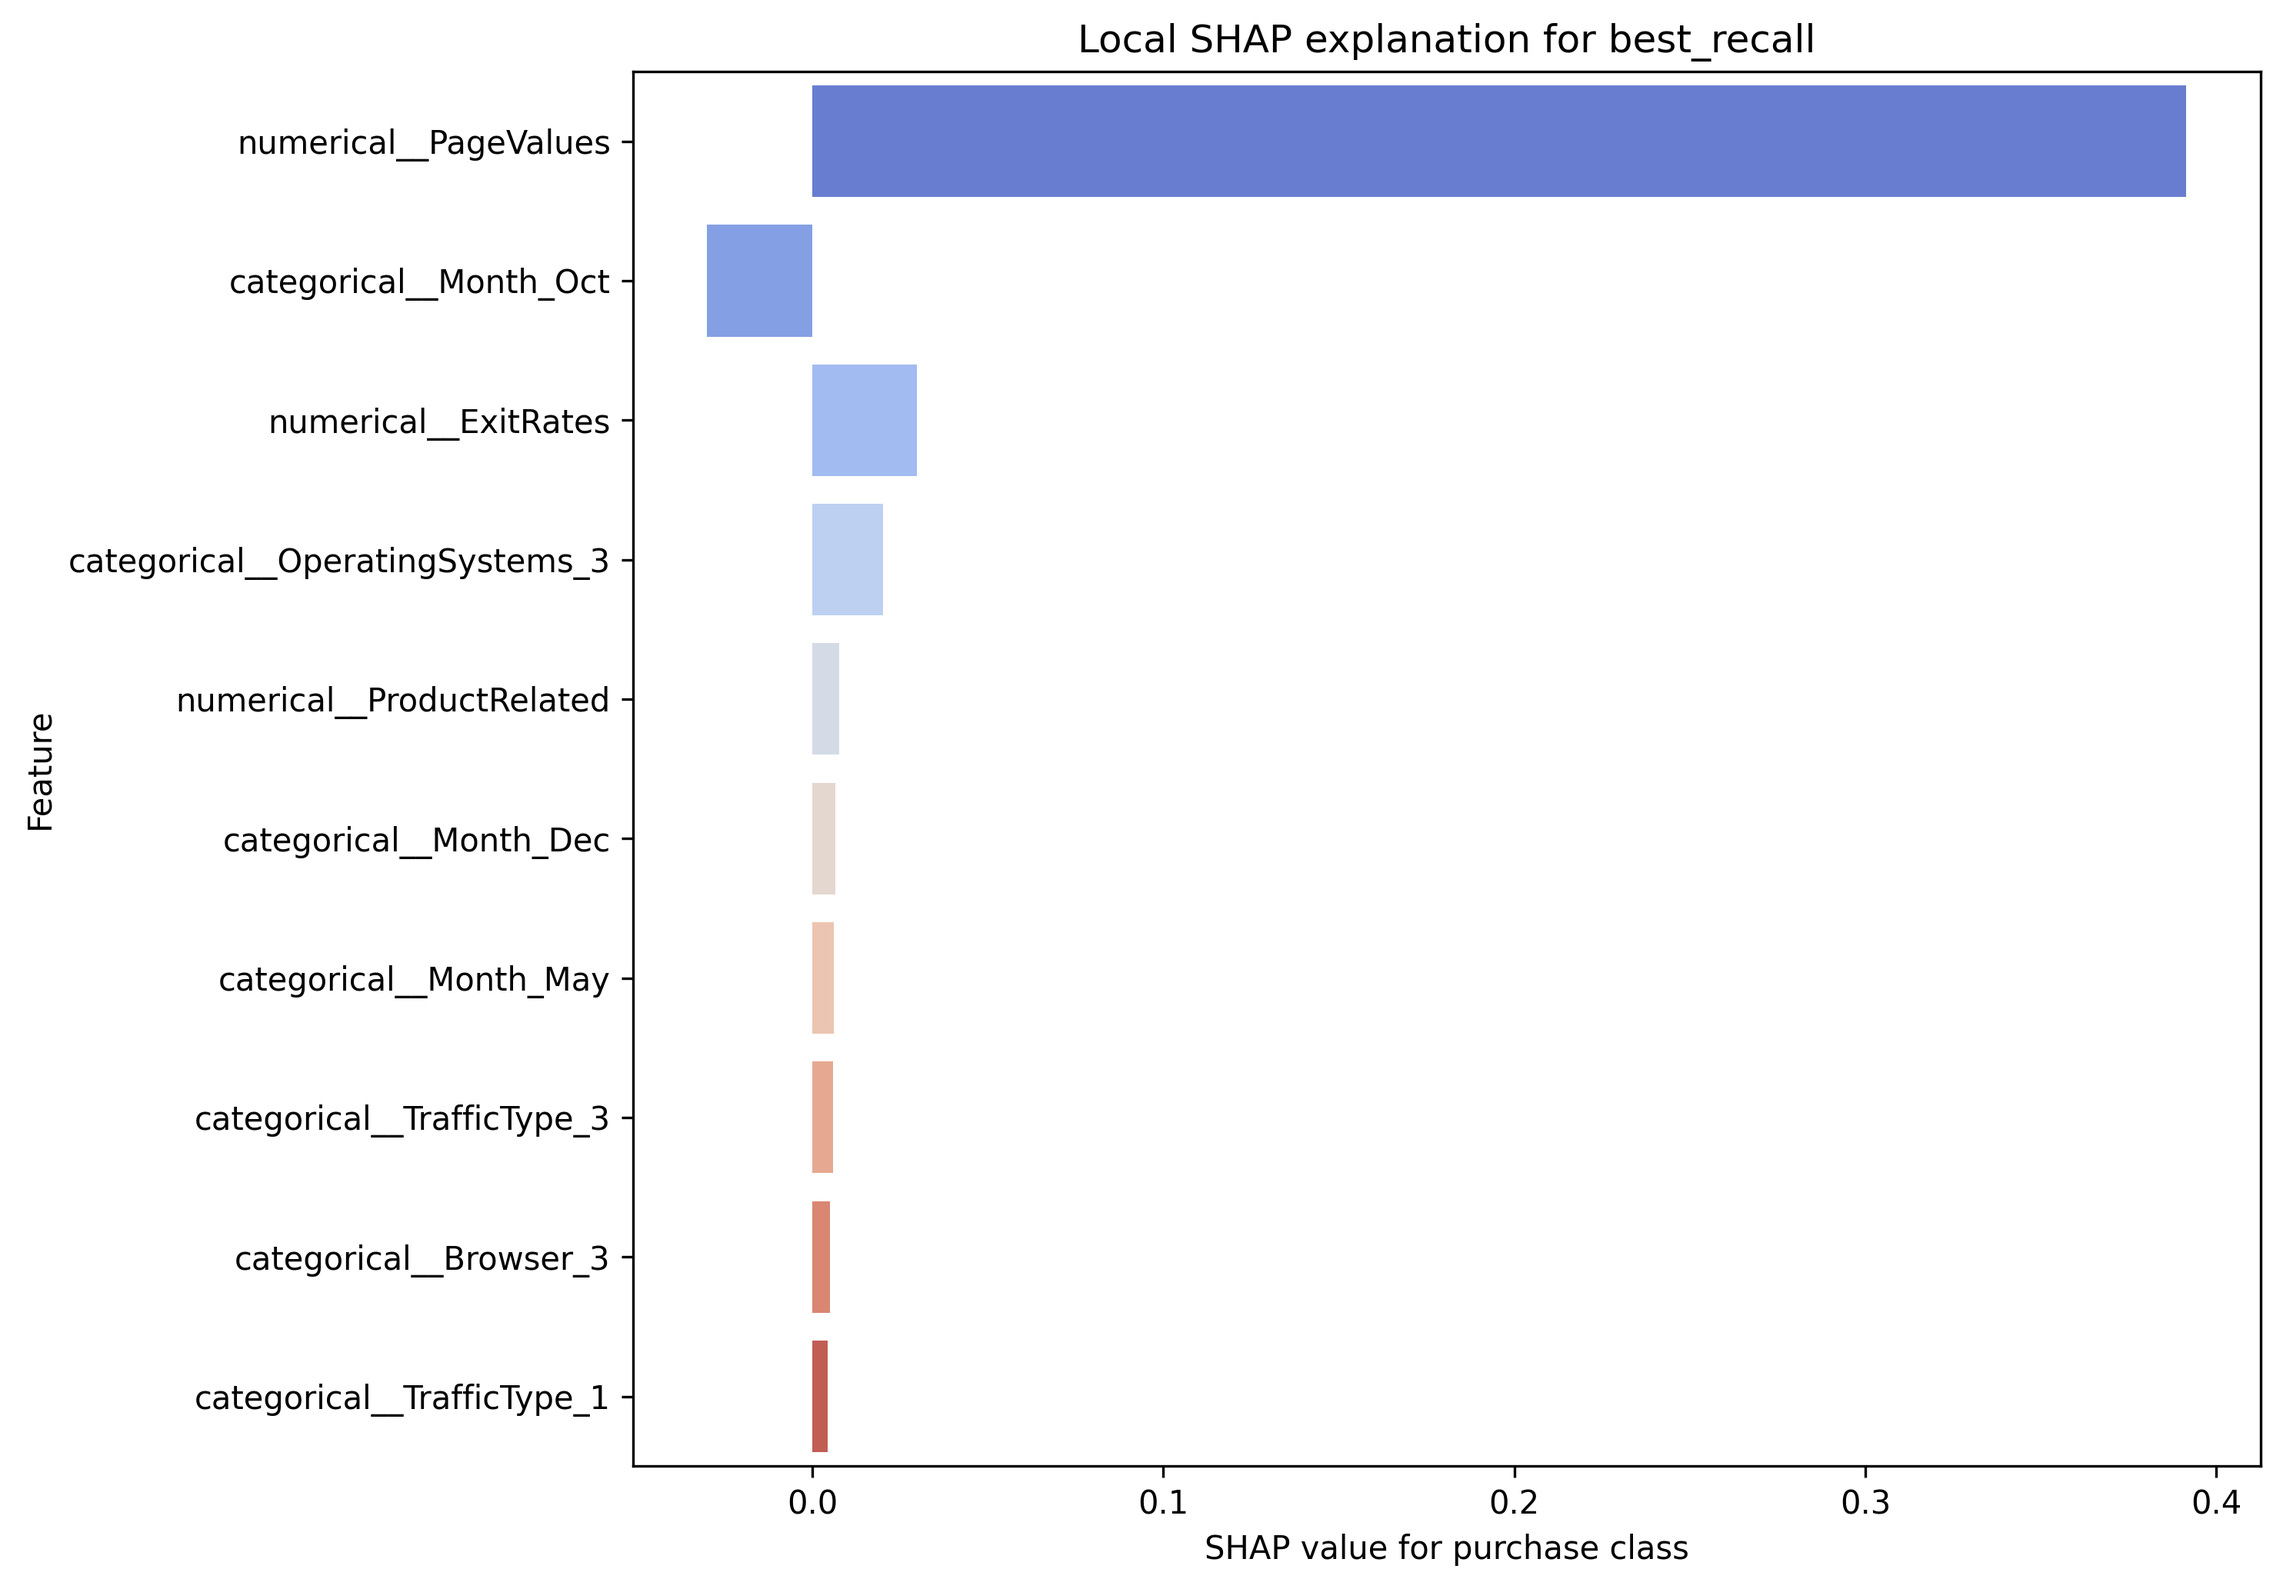
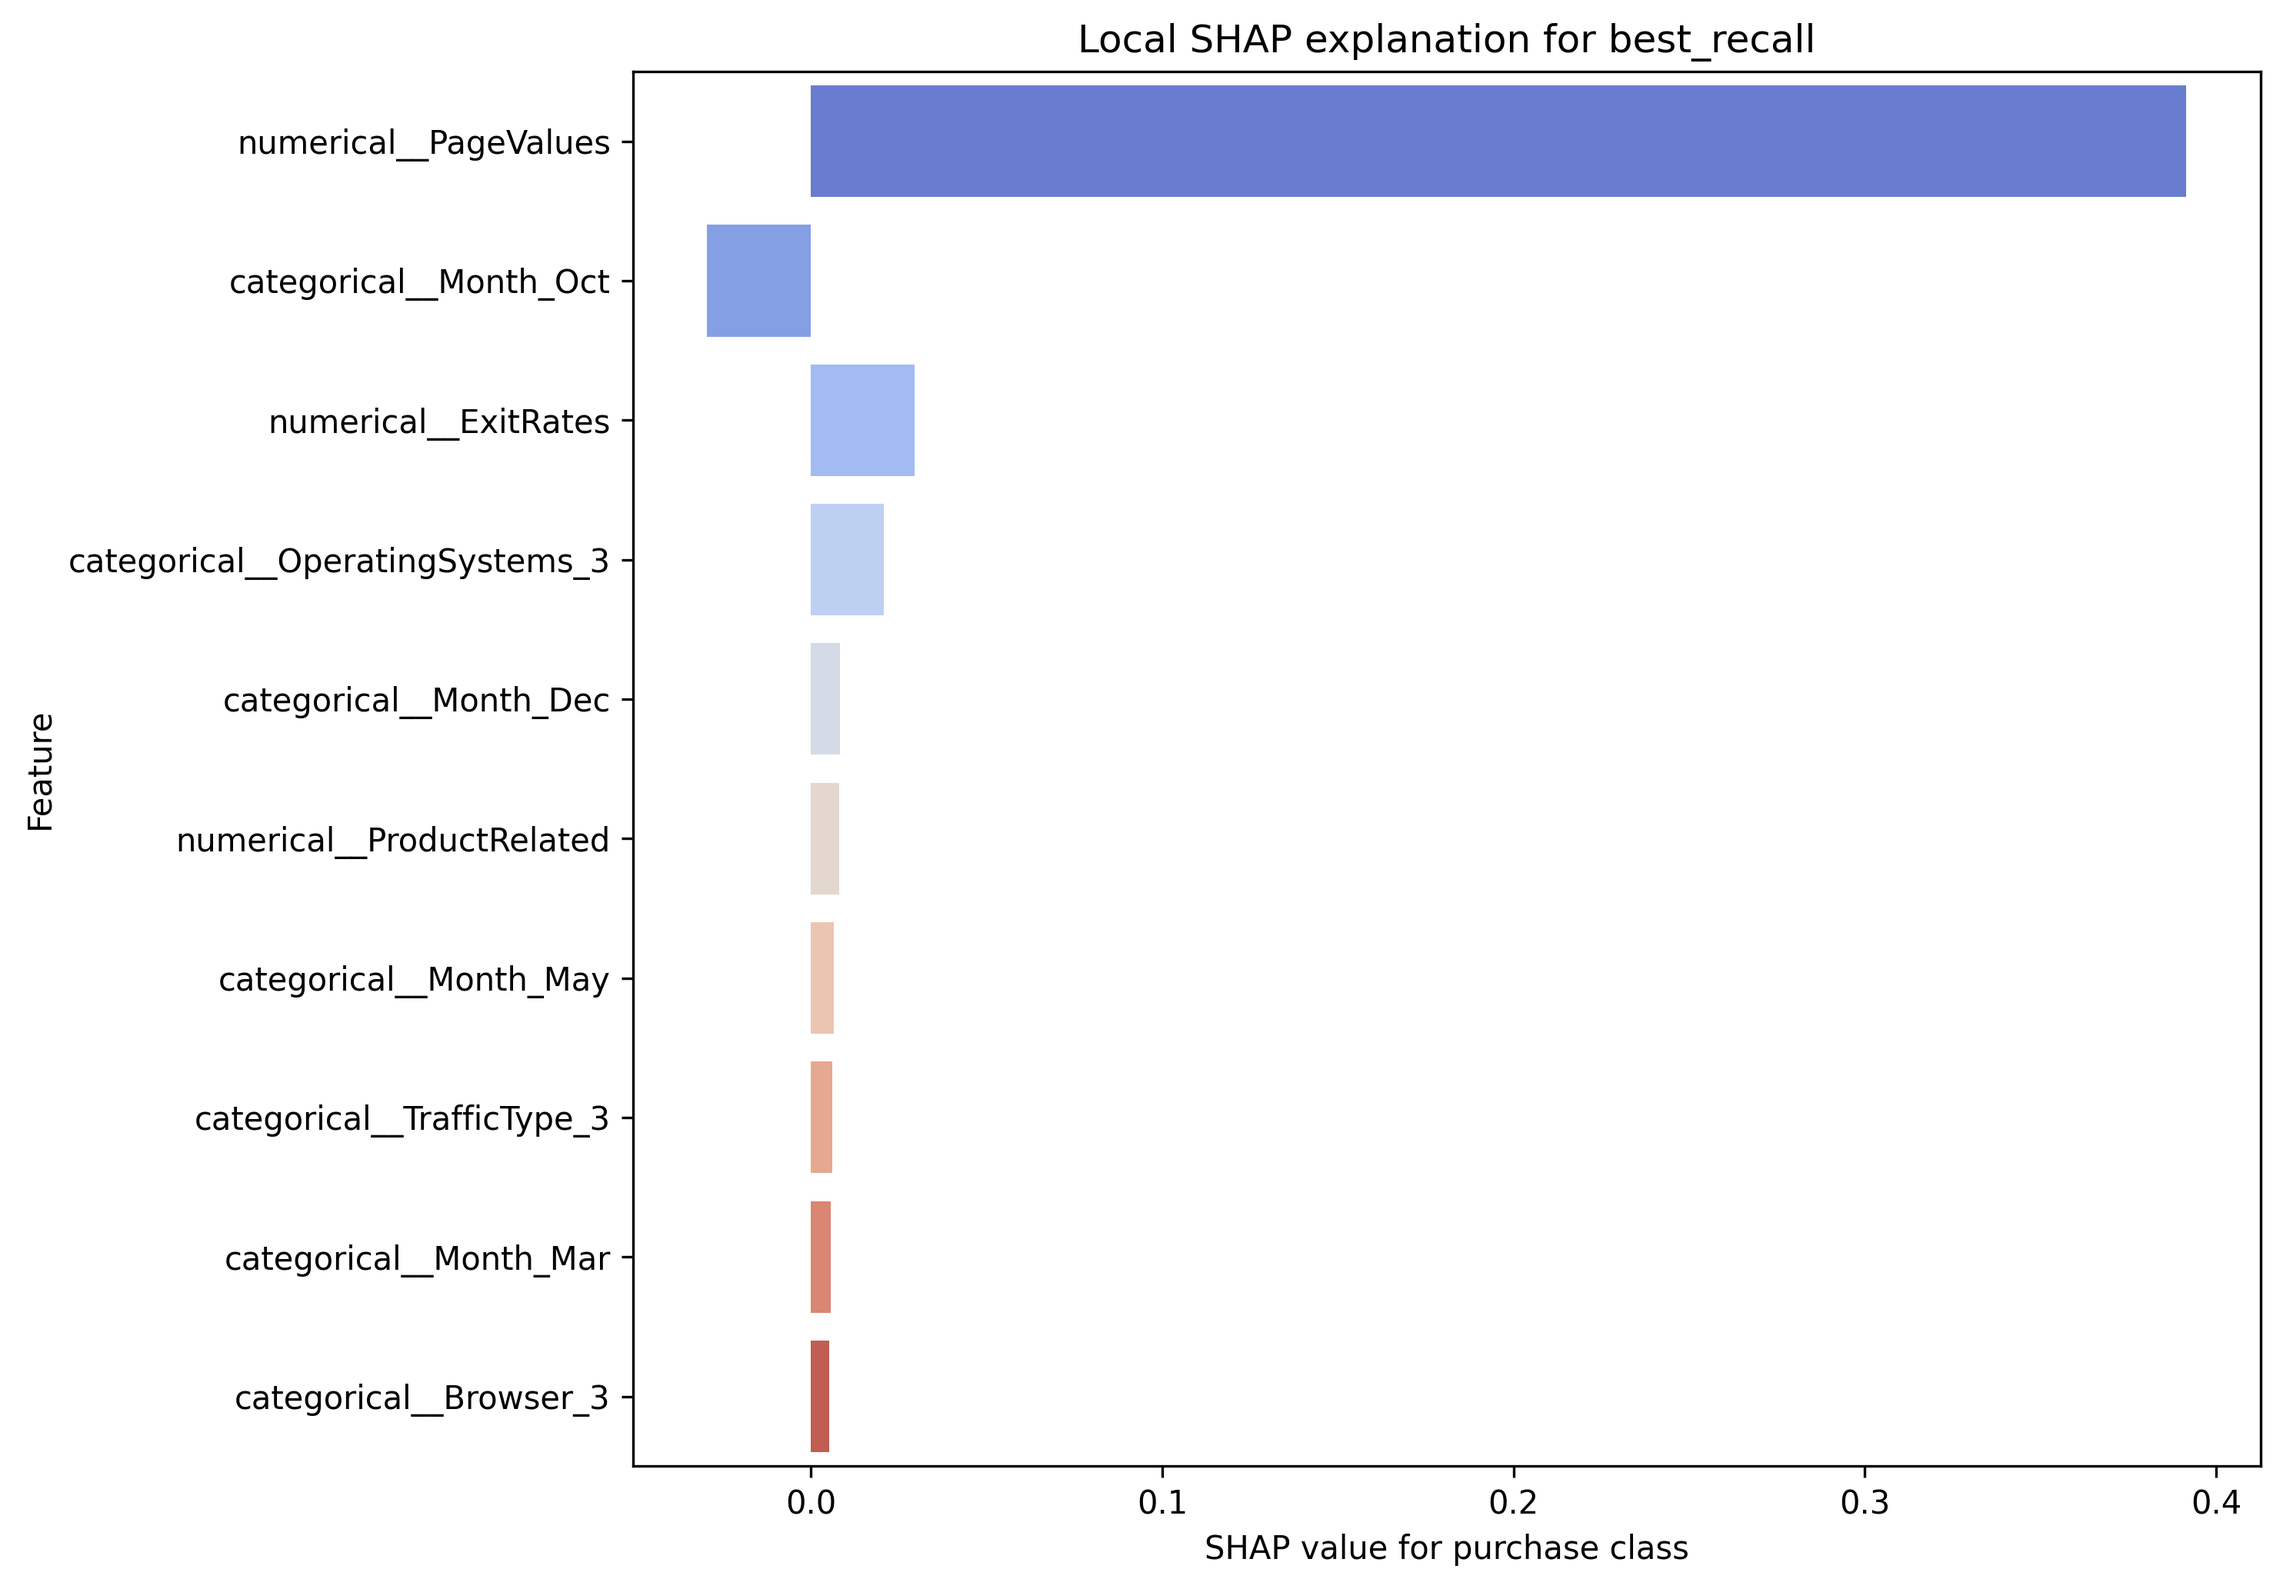
Fix SHAP positive-class explanation plotting

diff --git a/src/explain_models.py b/src/explain_models.py
@@ -90,18 +90,31 @@ def get_model_and_data(row):
 def positive_class_shap_values(shap_values):
     """Return SHAP values for the purchase class (True / class 1)."""
     if isinstance(shap_values, list):
-        return np.asarray(shap_values[1], dtype=float)
-    arr = np.asarray(shap_values, dtype=float)
+        arr = np.asarray(shap_values[1], dtype=float)
+    elif hasattr(shap_values, "values"):
+        arr = np.asarray(shap_values.values, dtype=float)
+    else:
+        arr = np.asarray(shap_values, dtype=float)
+
     if arr.ndim == 3:
-        return arr[:, :, 1]
+        if arr.shape[-1] == 2:
+            return arr[:, :, 1]
+        return arr[:, :, 0]
     if arr.ndim == 2:
         return arr
+    if arr.ndim == 1:
+        return arr.reshape(1, -1)
     raise ValueError(f"Unsupported SHAP structure for purchase-class explanation: {arr.shape}")
 
 
 def make_feature_ranking(values, feature_names):
     """Create a ranked feature table from absolute SHAP values."""
-    mean_abs = np.abs(values).mean(axis=0)
+    arr = np.asarray(values, dtype=float)
+    if arr.ndim == 1:
+        arr = arr.reshape(1, -1)
+    if arr.ndim == 3 and arr.shape[-1] == 2:
+        arr = arr[:, :, 1]
+    mean_abs = np.abs(arr).mean(axis=0)
     return pd.DataFrame({
         "feature": feature_names,
         "mean_abs_shap": mean_abs,
@@ -123,8 +136,18 @@ def save_global_plot(values, feature_names, path, title):
 
 def save_local_plot(values, feature_names, path, title):
     """Save a local explanation for the most influential sample."""
-    sample_idx = int(np.argmax(np.abs(values).sum(axis=1)))
-    local_values = values[sample_idx]
+    arr = np.asarray(values, dtype=float)
+    if arr.ndim == 1:
+        arr = arr.reshape(1, -1)
+    if arr.ndim == 3 and arr.shape[-1] == 2:
+        arr = arr[:, :, 1]
+    if arr.ndim != 2:
+        raise ValueError(f"Expected a 2D SHAP value matrix for local plotting, got {arr.shape}.")
+    if arr.shape[0] == 0:
+        raise ValueError("No SHAP values were generated for the selected sample.")
+
+    sample_idx = int(np.argmax(np.abs(arr).sum(axis=1)))
+    local_values = arr[sample_idx]
     ranking = pd.DataFrame({
         "feature": feature_names,
         "shap_value": local_values,
